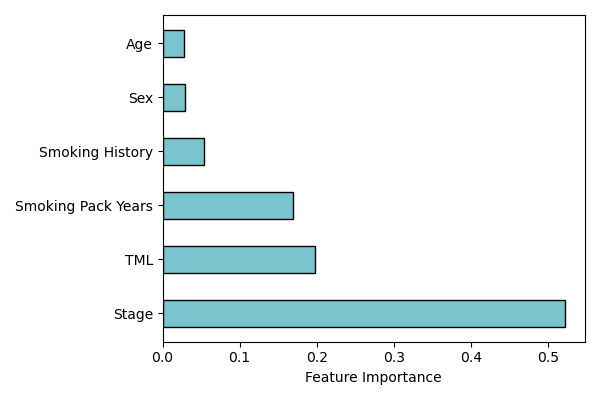
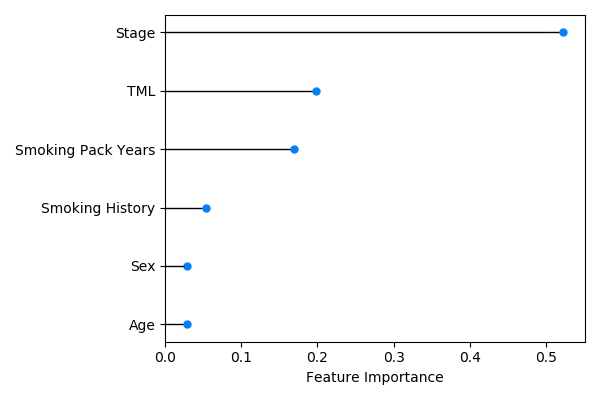
Feature importance changed format

diff --git a/pipeline/04-Feature-Importance/plot_feature_importance.py b/pipeline/04-Feature-Importance/plot_feature_importance.py
@@ -11,6 +11,8 @@ META_DATA = os.path.join(PATH, os.pardir, os.pardir, "data", "meta_data")
 
 FIGSIZE = (6, 4)
 FONTSIZE = 10
+MARKER_SIZE = 25
+DELTA = 5.e-3
 
 cf_tml = pd.read_csv(os.path.join(META_DATA, "feature_importance_decoded_CF + TML.tsv"), sep="\t",
                      index_col=0)
@@ -26,8 +28,10 @@ def plot_no_resample(axes: Axes, data: pd.DataFrame) -> None:
     :param data: Data to plot
     :return: None, alter axes
     """
-    axes.barh(data.index, data["No Resample"], height=[0.5]*len(data),
-              color="#7AC5CD", label="No resample", edgecolor="black", linewidth=1.0)
+    axes.barh(data.index, data["No Resample"] - DELTA, height=[0.]*len(data),
+              edgecolor="black", linewidth=1.0)
+    axes.scatter(data["No Resample"], data.index, marker='o',
+    	color="#0080FF", s=MARKER_SIZE, alpha=1.0)
     axes.set_xlabel("Feature Importance", fontsize=FONTSIZE)
     return
 

diff --git a/pipeline/04-Feature-Importance/extract_feature_importance.py b/pipeline/04-Feature-Importance/extract_feature_importance.py
@@ -150,7 +150,7 @@ if __name__ == "__main__":
         feature_importance.rename(index=decoding["Category"].to_dict(), inplace=True)
         feature_importance.sort_values(by="No Resample", axis=0, ascending=False, inplace=True)
         feature_importance.to_csv(os.path.join(META_DATA, "feature_importance_{}.tsv".format(name)), sep="\t")
-        feature_importance_decoded.sort_values(by="No Resample", axis=0, ascending=False, inplace=True)
+        feature_importance_decoded.sort_values(by="No Resample", axis=0, ascending=True, inplace=True)
         feature_importance_decoded.rename(index={"SMOKING_PACK_YEARS": "Smoking Pack Years"}, inplace=True)
         feature_importance_decoded.to_csv(
             os.path.join(META_DATA, "feature_importance_decoded_{}.tsv".format(name)),
